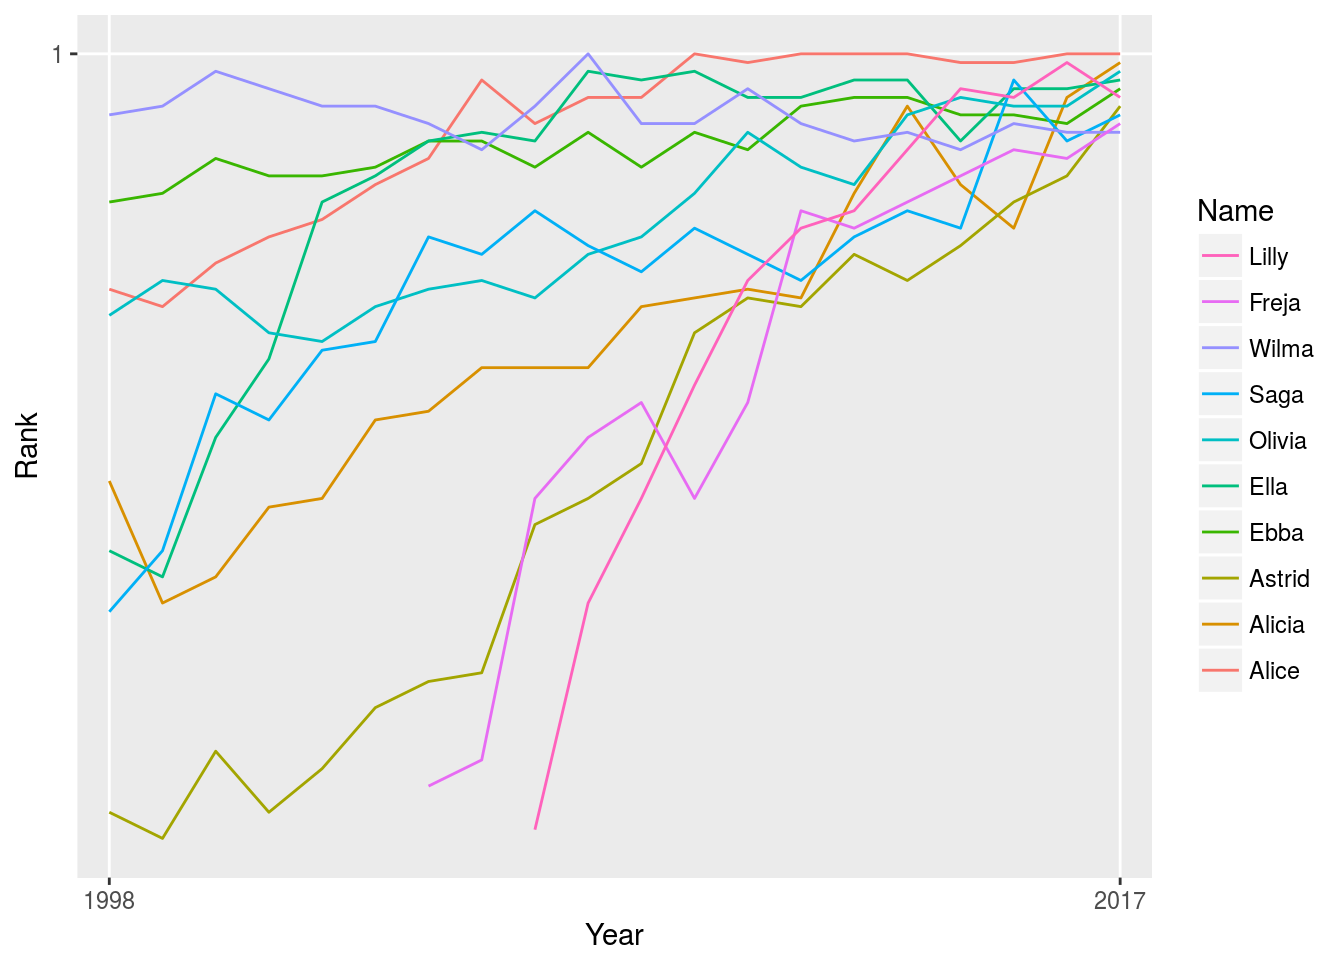
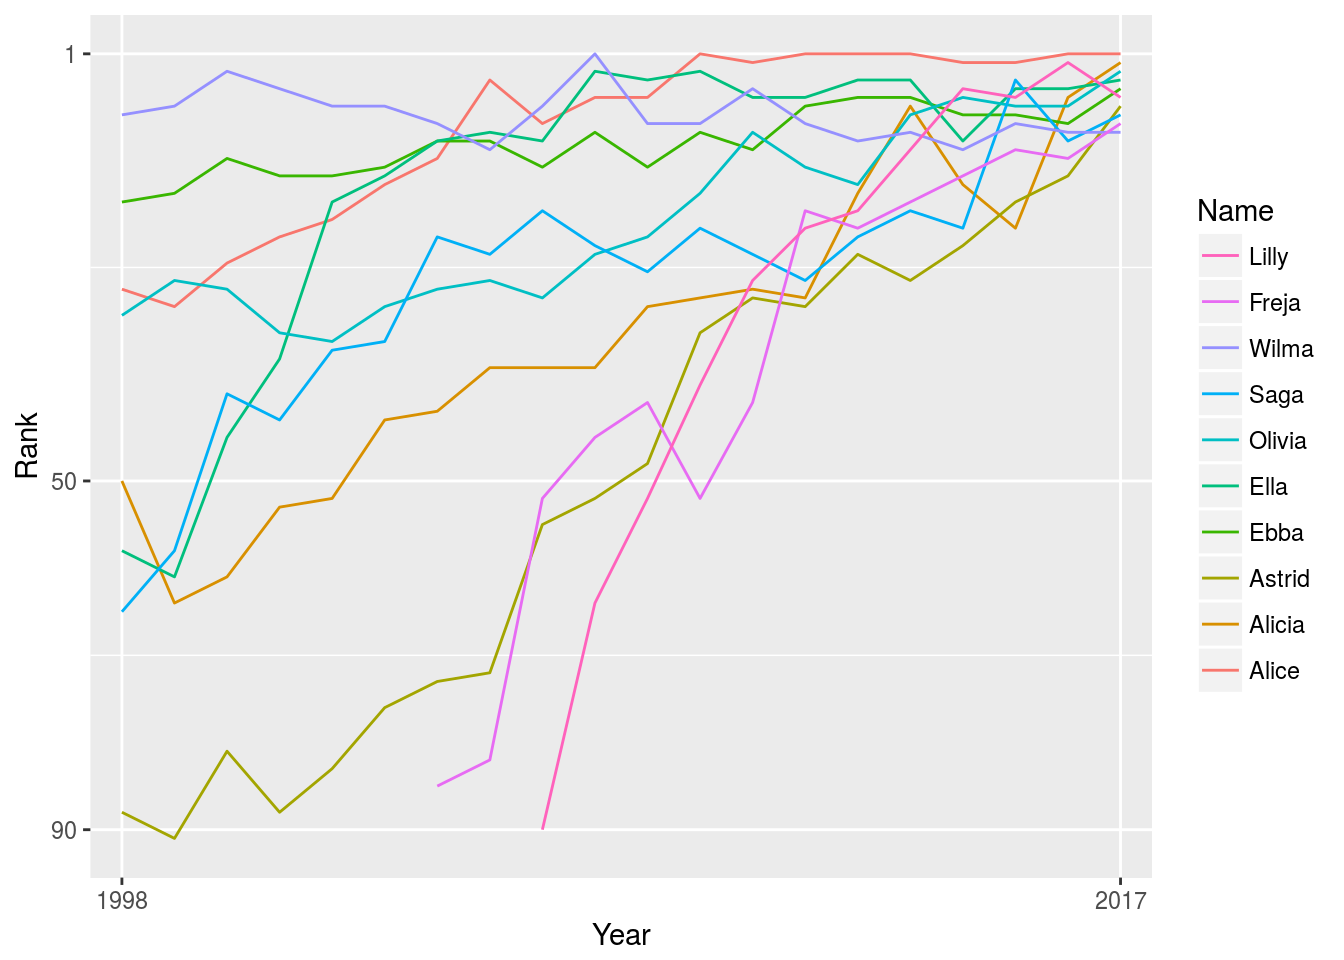
commit apr3

diff --git a/scraper.html b/scraper.html
@@ -312,7 +312,7 @@ name_data$Rank &lt;- as.numeric(levels(name_data$Rank))[name_data$Rank]</code></
 </div>
 <div id="and-some-data-viz" class="section level3">
 <h3>And some data viz</h3>
-<p>Which names were the most popular over the last two decades? Let’s look at the top 25 over all of the years. William, Oscar, and Liam are the most common names for Swedish boys in the last 20 years, and Alice, Alicia, and Olivia are the most popular for girls. The figures below show the most popular 25 names for boys and girls in a horizontal bar chart.</p>
+<p>Which names were the most popular over the last two decades? Let’s look at the top 25 over all of the years. Oscar, William, and Lucas are the most common names for Swedish boys in the last 20 years, and Emma, Julia, and Maja are the most popular for girls. The figures below show the most popular 25 names for boys and girls in a horizontal bar chart.</p>
 <pre class="r"><code>name_data %&gt;% 
   dplyr::filter(Gender == &quot;Boy&quot;) %&gt;%
   dplyr::group_by(Name) %&gt;% 
@@ -333,7 +333,7 @@ name_data$Rank &lt;- as.numeric(levels(name_data$Rank))[name_data$Rank]</code></
   geom_col(aes(x = reorder(Name, Total), y = Total), fill = &quot;navy blue&quot;) +
   coord_flip()</code></pre>
 <p><img src="scraper_files/figure-html/unnamed-chunk-7-2.png" width="672" /></p>
-<p>Another question, how stable are the top names? Have Alice, Alicia, and Olivia always been popular names or were they simply really popular in some years but not at all in others? Are girls names more stable than boys?</p>
+<p>Another question, how stable are the top names? Have Emma, Julia, and Maja always been popular names or were they simply really popular in some years but not at all in others? Are girls names more stable than boys?</p>
 <p>To get an idea of this we can plot the development of names over time. Here I subset on the top-ten names from 2017 and plot they over time for girls and boys. Here are the girls.</p>
 <pre class="r"><code>top_girl_names &lt;- name_data %&gt;% 
   dplyr::filter(Gender == &quot;Girl&quot;, Year == 2017) %&gt;%
@@ -346,7 +346,7 @@ name_data[which(name_data$Name %in% unique(top_girl_names$Name)),] %&gt;%
   ggplot(aes(x = Year, y = Rank, col = Name, group = Name)) +
   geom_line() + 
   guides(color = guide_legend(reverse = T)) +
-  scale_y_reverse(breaks = c(1,100)) + 
+  scale_y_reverse(breaks = c(1,50,90)) + 
   scale_x_discrete(breaks = c(1998,2017))</code></pre>
 <p><img src="scraper_files/figure-html/unnamed-chunk-8-1.png" width="672" /></p>
 <p>And the boys:</p>
